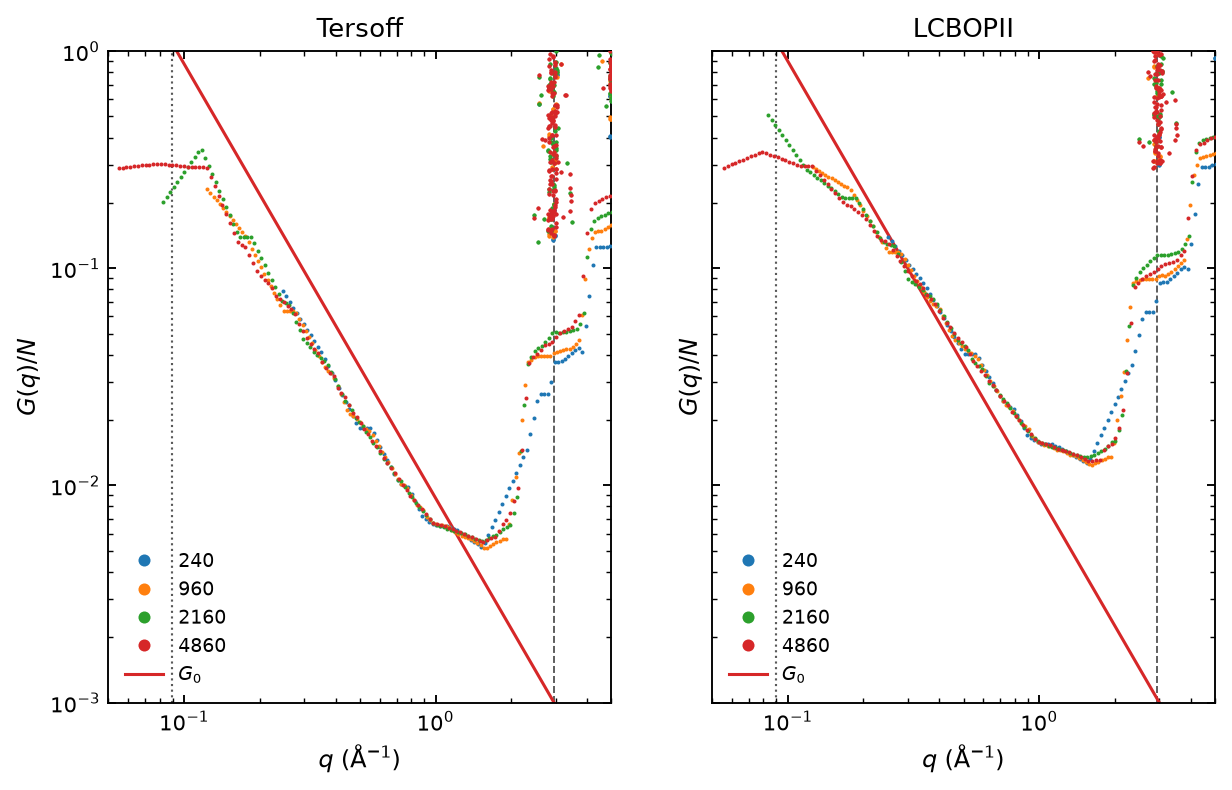
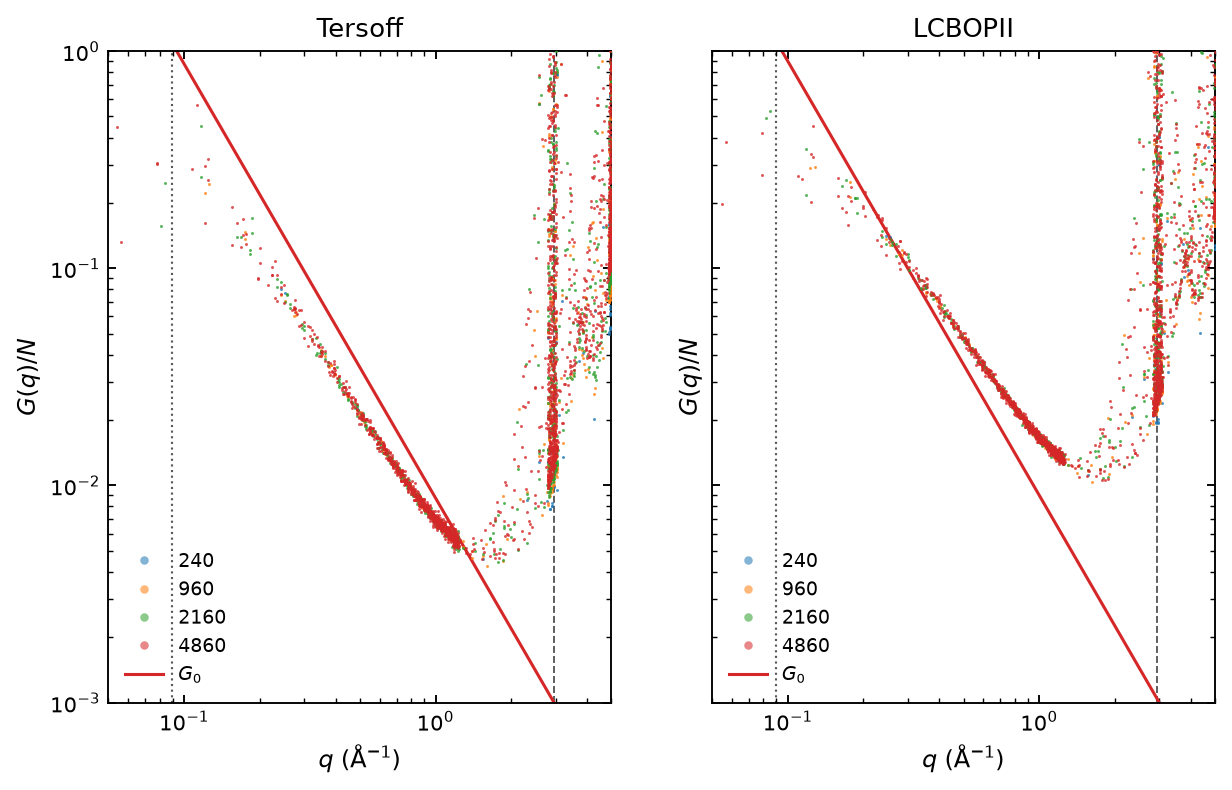
fix(plots): draw every G(q) mode as a point
Drop the median spacing so the full mode cloud is visible. Keep the paper axes and leave G0 as the only line.

diff --git a/scripts/generate_plots.py b/scripts/generate_plots.py
@@ -21,7 +21,7 @@ sys.path.insert(0, str(ROOT / "src"))
 from matplotlib.ticker import LogFormatterMathtext, LogLocator, NullFormatter
 
 from ripples.lattice import KAPPA_300K  # noqa: E402
-from ripples.observables import G0_harmonic, line_and_peaks  # noqa: E402
+from ripples.observables import G0_harmonic  # noqa: E402
 
 DATOS = ROOT / "results" / "datos"
 GRAF = ROOT / "results" / "graficas"
@@ -165,8 +165,8 @@ def plot_gq():
             q = np.concatenate([q, q_hi[extra]])
             g = np.concatenate([g, g_hi[extra]])
     # Ejes de la Fig. 3: q de 0.05 a 5, G/N de 1e-3 a 1.
-    # La mediana da la curva; los modos que la superan se dibujan encima.
-    q_line, g_line, q_pk, g_pk = line_and_peaks(q, g)
+    # Todos los modos, sin mediana ni espaciado; solo puntos.
+    m = (q >= 0.05) & (q <= 5.0) & (g > 0.0)
     q_th = np.logspace(np.log10(0.05), np.log10(5.0), 400)
     g0 = G0_harmonic(q_th, n_atoms, s0, T=T, kappa=KAPPA_300K)
 
@@ -176,12 +176,9 @@ def plot_gq():
     ax.set_yscale("log")
     ax.plot(q_th, g0, color="#d62728", lw=1.3, label=r"$G_0(q)$", zorder=2)
     ax.plot(
-        q_line, g_line, ls="none", marker="o", ms=2.0,
-        color="#2ca02c", markeredgewidth=0, label=str(n_atoms), zorder=3,
-    )
-    ax.plot(
-        q_pk, g_pk, ls="none", marker="o", ms=2.0,
-        color="#2ca02c", markeredgewidth=0, zorder=4,
+        q[m], g[m], ls="none", marker="o", ms=1.5,
+        color="#2ca02c", markeredgewidth=0, alpha=0.75,
+        label=str(n_atoms), zorder=3, rasterized=True,
     )
     ax.axvline(2.0 * np.pi / 70.0, color="0.35", ls=":", lw=0.9, zorder=1)
     ax.axvline(4.0 * np.pi / (3.0 * 1.42), color="0.35", ls="--", lw=0.8, zorder=1)

diff --git a/scripts/figuras_estudio.py b/scripts/figuras_estudio.py
@@ -1,8 +1,7 @@
 #!/usr/bin/env python3
 """Figuras del estudio LCBOPII (N<=4860) y de la comparación con Tersoff.
 
-La curva de G(q) es la mediana, dibujada con puntos.
-Los modos que se disparan por encima se añaden para que se vean los picos.
+G(q) dibuja todos los modos como puntos, sin mediana ni espaciado.
 Los ejes son los de la Fig. 3 del paper.
 """
 
@@ -23,7 +22,7 @@ sys.path.insert(0, str(ROOT / "scripts"))
 
 from contrastar_paper import informe  # noqa: E402
 from ripples.lattice import KAPPA_300K  # noqa: E402
-from ripples.observables import G0_harmonic, line_and_peaks  # noqa: E402
+from ripples.observables import G0_harmonic  # noqa: E402
 
 SIZES = [240, 960, 2160, 4860]
 COLORES = {240: "#1f77b4", 960: "#ff7f0e", 2160: "#2ca02c", 4860: "#d62728"}
@@ -61,16 +60,13 @@ def rdf(base: Path, n: int) -> tuple[np.ndarray, np.ndarray]:
 def serie_gq(ax, info: dict, marca: str, relleno: bool) -> None:
     del marca, relleno
     color = COLORES[info["N"]]
-    q_line, g_line, q_pk, g_pk = line_and_peaks(info["q"], info["g"])
+    q, g = info["q"], info["g"]
+    sel = (q >= FIG3_Q[0]) & (q <= FIG3_Q[1]) & (g > 0)
     ax.plot(
-        q_line, g_line,
-        color=color, marker="o", ms=1.7, ls="none",
-        markeredgewidth=0, label=str(info["N"]), zorder=3,
-    )
-    ax.plot(
-        q_pk, g_pk,
-        color=color, marker="o", ms=1.7, ls="none",
-        markeredgewidth=0, zorder=4,
+        q[sel], g[sel],
+        color=color, marker="o", ms=1.2, ls="none",
+        markeredgewidth=0, alpha=0.55, label=str(info["N"]),
+        zorder=3, rasterized=True,
     )
 
 

diff --git a/scripts/analizar_tabla.py b/scripts/analizar_tabla.py
@@ -18,7 +18,7 @@ sys.path.insert(0, str(ROOT / "scripts"))
 
 from contrastar_paper import hay_maximo, informe  # noqa: E402
 from ripples.lattice import PAPER_SIZES, TABLE_I_BOX, paper_box  # noqa: E402
-from ripples.observables import cluster_shells, spectrum_curve  # noqa: E402
+from ripples.observables import cluster_shells  # noqa: E402
 
 SIZES = [240, 960, 2160, 4860, 8640]
 Q_RIPPLE = 2.0 * np.pi / 70.0
@@ -94,9 +94,12 @@ def figuras(filas: list[dict]) -> None:
     g0 = G0_harmonic(q_th, 1, s0, T=300.0, kappa=KAPPA_300K)
     ax.loglog(q_th, g0, color="#d62728", lw=1.5, label=r"$G_0$", zorder=2)
     for info in filas:
-        q_line, g_line = spectrum_curve(info["q"], info["g"])
-        ax.loglog(
-            q_line, g_line, lw=1.35, color=COLORES[info["N"]], label=str(info["N"]), zorder=3
+        q, g = info["q"], info["g"]
+        sel = (q >= FIG3_Q[0]) & (q <= FIG3_Q[1]) & (g > 0)
+        ax.plot(
+            q[sel], g[sel], ls="none", marker="o", ms=1.2,
+            color=COLORES[info["N"]], markeredgewidth=0, alpha=0.55,
+            label=str(info["N"]), zorder=3, rasterized=True,
         )
     ax.axvline(Q_RIPPLE, color="0.35", ls=":", lw=0.9, zorder=1)
     ax.axvline(BRAGG_1, color="0.35", ls="--", lw=0.8, zorder=1)
